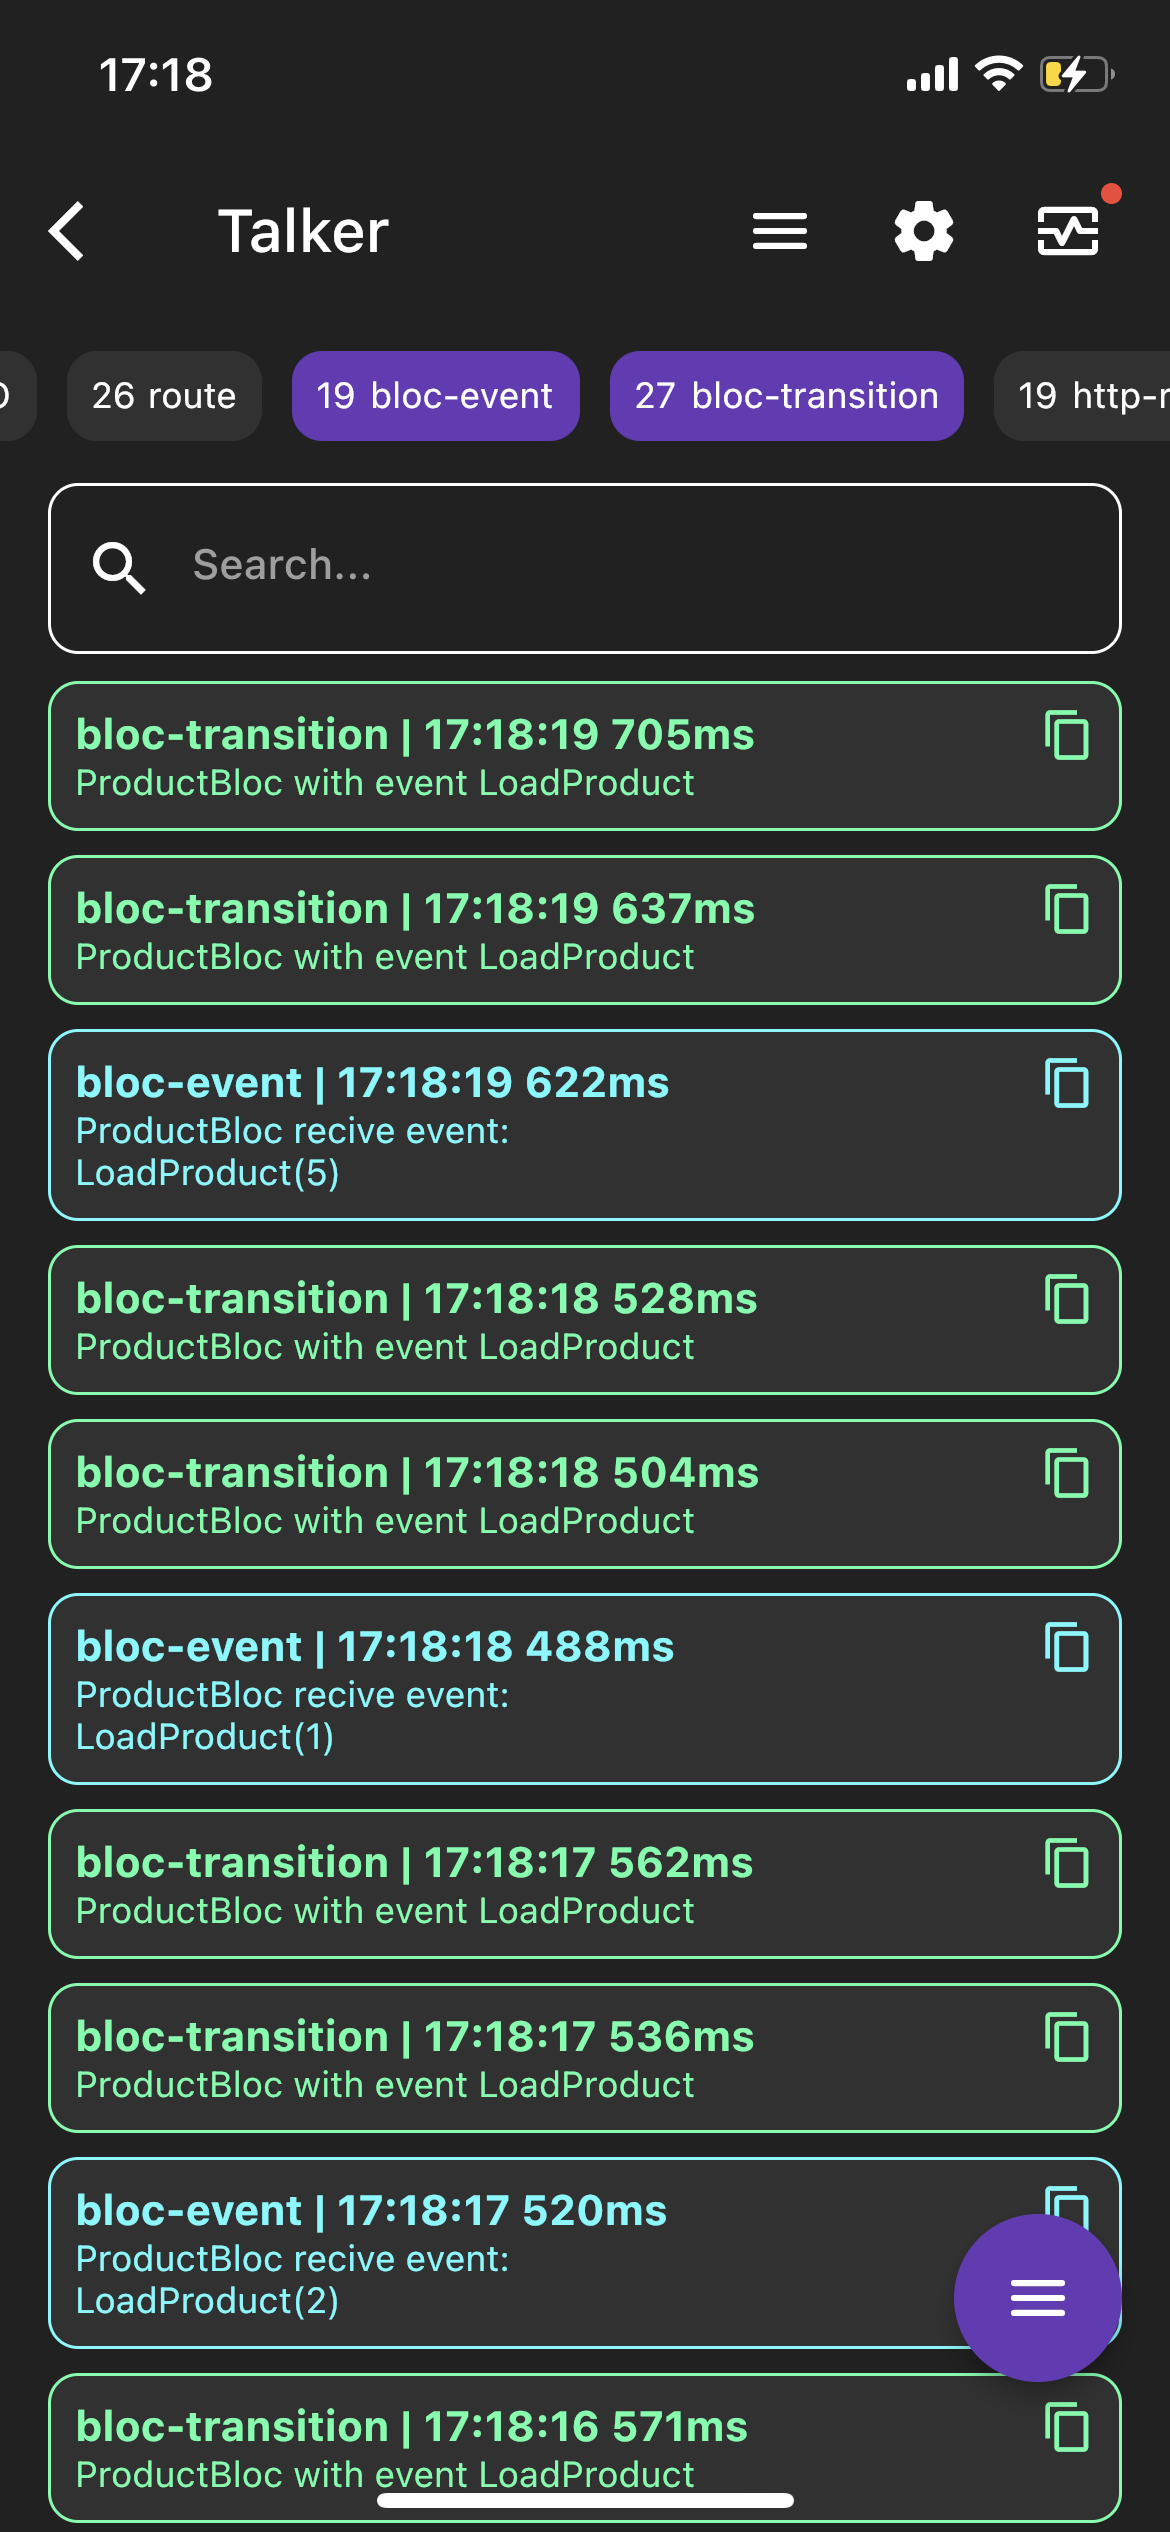
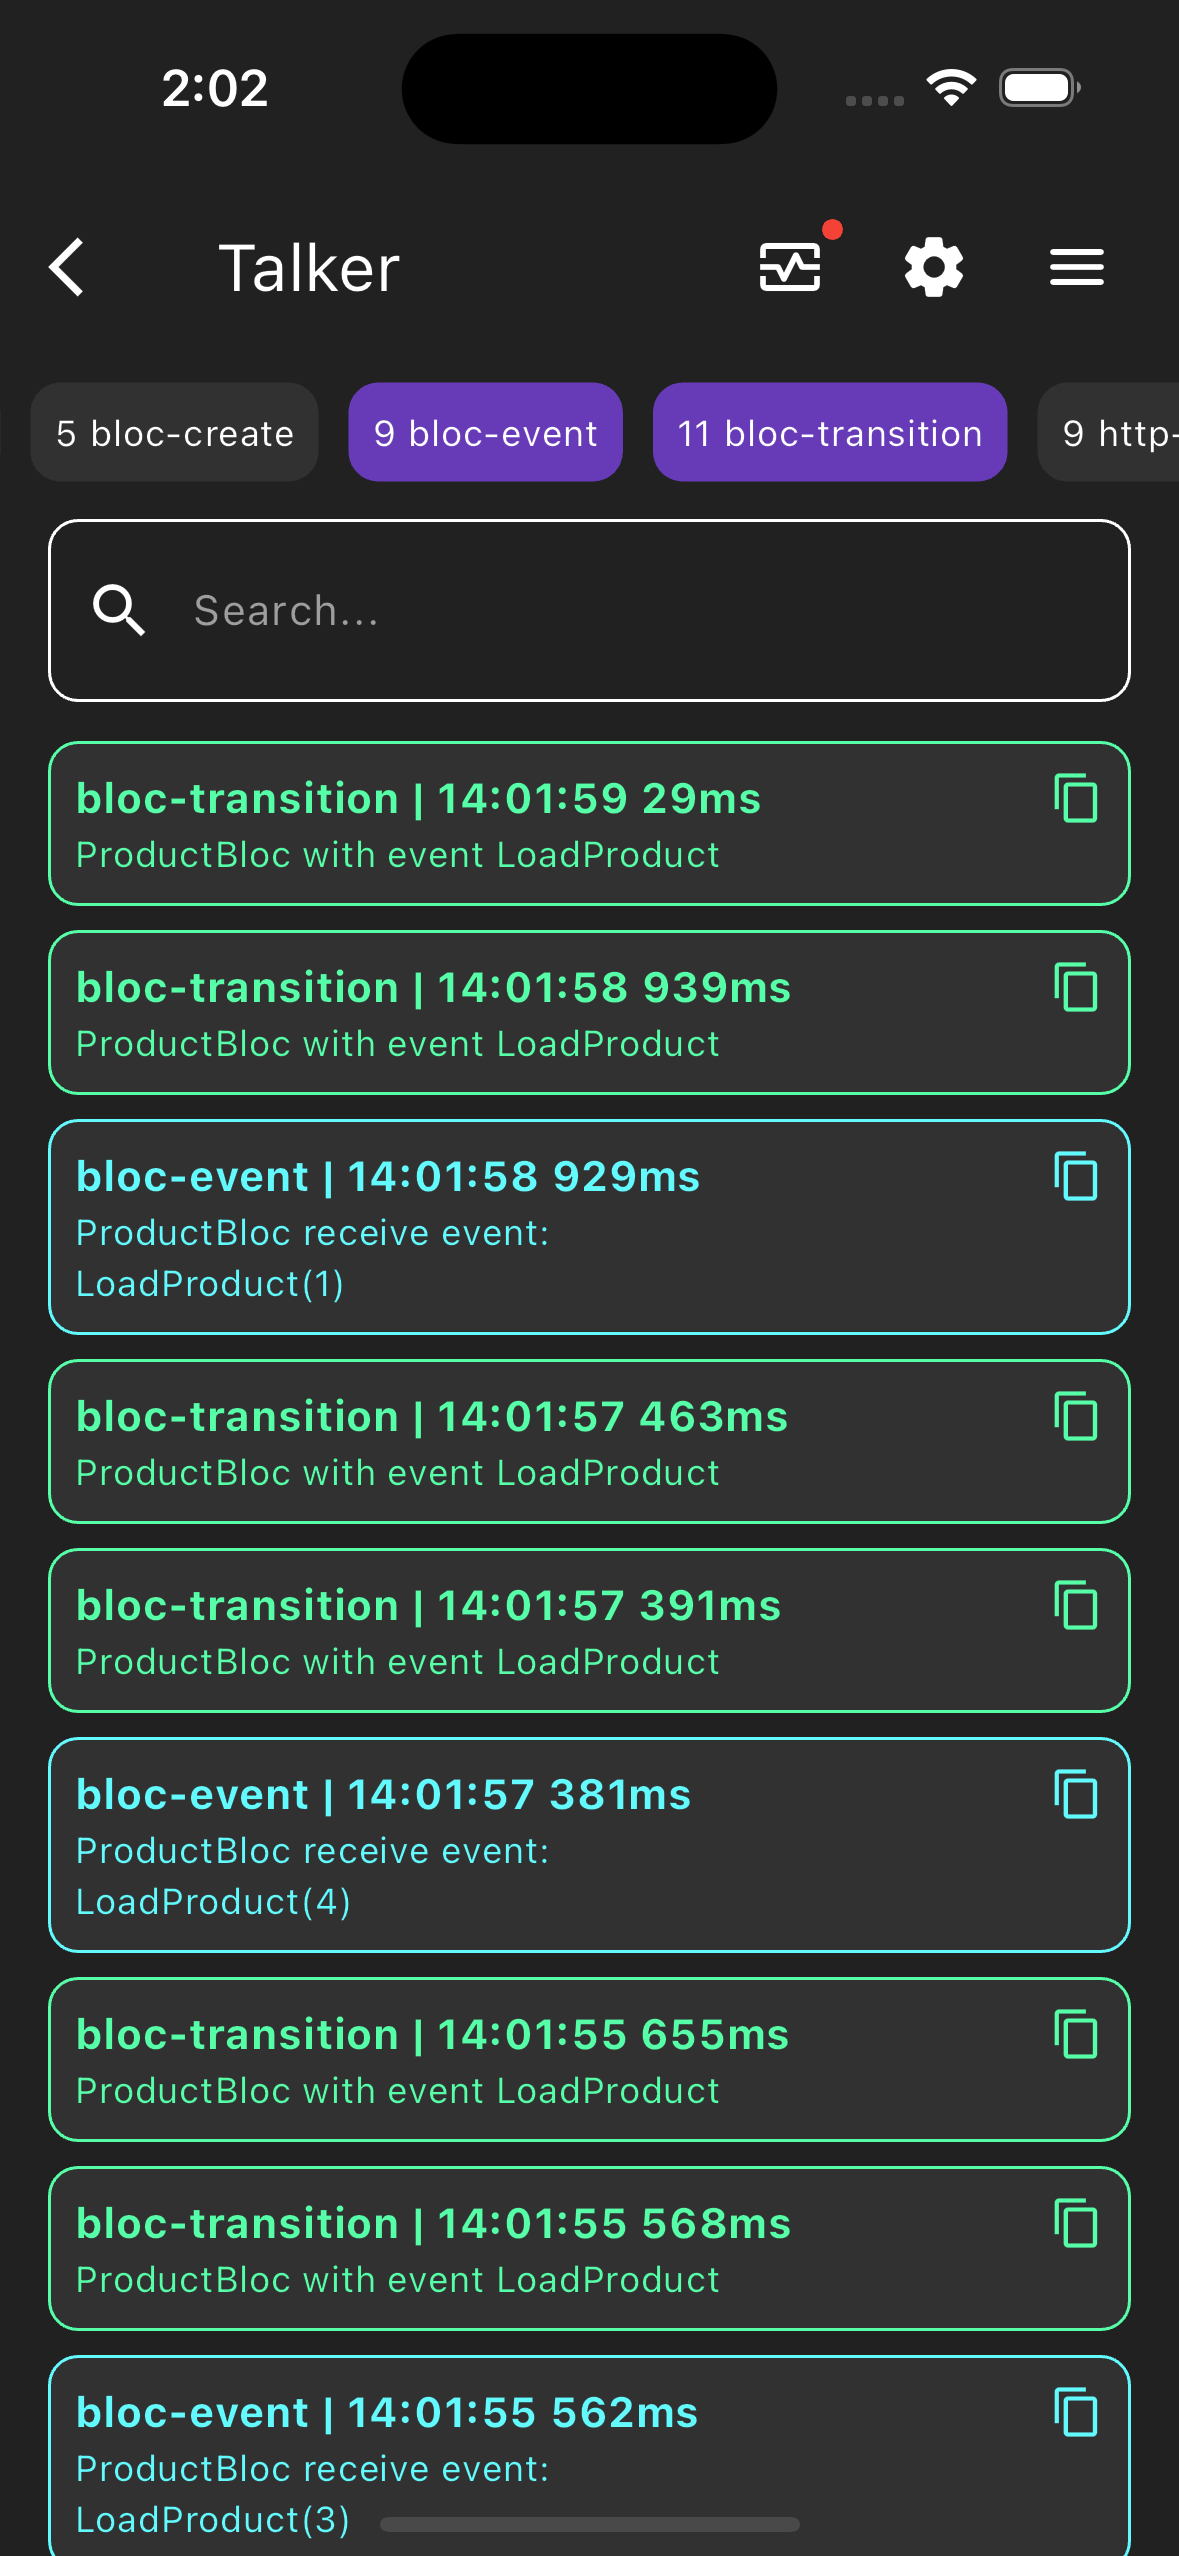
Update images

Changed region(s): [[0.0308, 0.0, 0.9846, 1.0], [0.8923, 0.156, 1.0, 0.2184], [0.0308, 0.0624, 0.0615, 0.1248]]

diff --git a/examples/shop_app_example/lib/ui/theme.dart b/examples/shop_app_example/lib/ui/theme.dart
@@ -26,26 +26,4 @@ final Map<int, Color> _primaryColorCodes = {
   900: _primaryColor,
 };
 
-const talkerTheme = TalkerScreenTheme(logColors: {
-  TalkerLogType.error: Color.fromARGB(255, 250, 126, 123),
-  TalkerLogType.critical: Color.fromARGB(255, 255, 95, 95),
-  TalkerLogType.info: Color.fromARGB(255, 137, 197, 246),
-  TalkerLogType.debug: Color.fromARGB(255, 180, 180, 180),
-  TalkerLogType.verbose: Color.fromARGB(255, 189, 189, 189),
-  TalkerLogType.warning: Color.fromARGB(255, 255, 158, 78),
-  TalkerLogType.exception: Color.fromARGB(255, 234, 123, 121),
-
-  /// Http section
-  TalkerLogType.httpError: Color.fromARGB(255, 247, 119, 117),
-  TalkerLogType.httpRequest: Color.fromARGB(255, 255, 116, 225),
-  TalkerLogType.httpResponse: Color.fromARGB(255, 146, 255, 157),
-
-  /// Bloc section
-  TalkerLogType.blocEvent: Color.fromARGB(255, 175, 252, 255),
-  TalkerLogType.blocTransition: Color.fromARGB(255, 146, 251, 197),
-  TalkerLogType.blocClose: Color.fromARGB(255, 252, 124, 171),
-  TalkerLogType.blocCreate: Color.fromARGB(255, 150, 247, 158),
-
-  /// Flutter section
-  TalkerLogType.route: Color.fromARGB(255, 208, 161, 255),
-});
+const talkerTheme = TalkerScreenTheme();

diff --git a/packages/talker_flutter/lib/src/ui/talker_view.dart b/packages/talker_flutter/lib/src/ui/talker_view.dart
@@ -132,7 +132,7 @@ class _TalkerViewState extends State<TalkerView> {
     showModalBottomSheet(
       context: context,
       backgroundColor: Colors.transparent,
-      isScrollControlled: true,
+      isScrollControlled: false,
       builder: (context) {
         return TalkerSettingsBottomSheet(
           talkerScreenTheme: theme,
